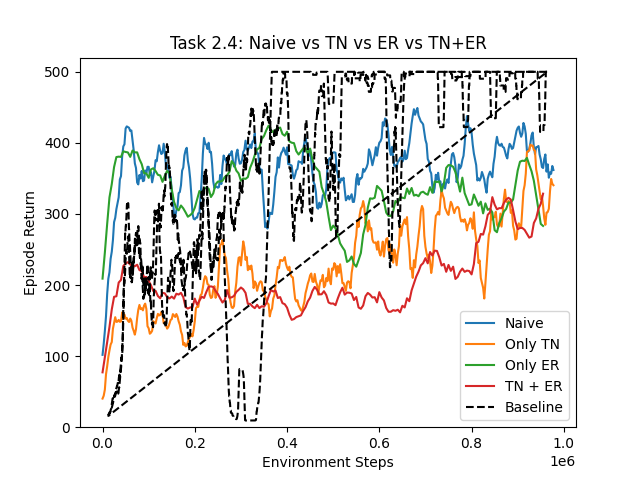
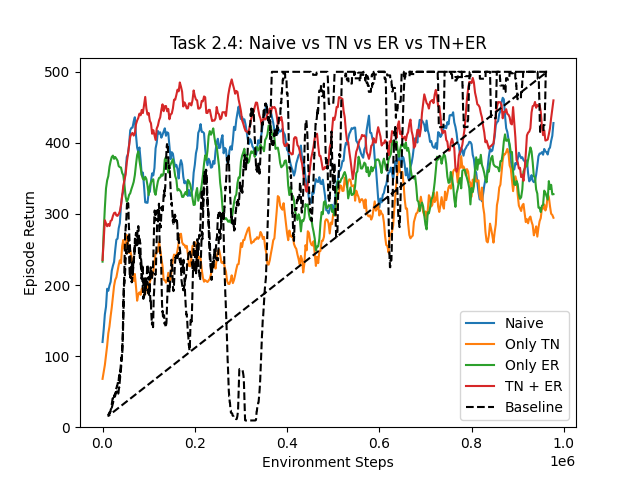
TN+ER best outperformer

Changed region(s): [[0.1562, 0.1562, 0.875, 0.8438]]

diff --git a/Experiment.py b/Experiment.py
@@ -1,17 +1,12 @@
 #Experiment.py
 
-#Usage:
-    #python Experiment.py            # run all tasks in sequence
-    #python Experiment.py --task 2.1 # run Task 2.1 only
-    #python Experiment.py --task 2.2 # run Task 2.2 only
-    #python Experiment.py --task 2.4 # run Task 2.4 only
-
-
 import numpy as np
 import time
 import argparse
+import gymnasium as gym
 from DQN import dqn
-from Helper import LearningCurvePlot, load_baseline, smooth
+from Agent import DQNAgent
+from Helper import LearningCurvePlot, load_baseline, smooth, evaluate
 
 
 # ============================================================
@@ -24,9 +19,8 @@ N_STEPS         = 1_000_000
 EVAL_INTERVAL   = 2_500
 N_EVAL_EPISODES = 5
 GAMMA           = 0.99
-NUM_ENVS        = 8      # parallel environments for speedup
+NUM_ENVS        = 8
 
-# Fixed best hyperparameters used across all tasks
 COMMON_PARAMS = dict(
     n_steps            = N_STEPS,
     eval_interval      = EVAL_INTERVAL,
@@ -38,10 +32,27 @@ COMMON_PARAMS = dict(
     hidden_size        = 64,
     batch_size         = 64,
     update_every       = 1,
-    target_update_freq = 500,
+    target_update_freq = 100,
     buffer_size        = 10000,
-    learning_rate      = 1e-4,
+    learning_rate      = 1e-3,
     num_envs           = NUM_ENVS,
+)
+
+# Params specifically for task 2.4 using per-episode decay
+TASK24_PARAMS = dict(
+    n_steps            = N_STEPS,
+    eval_interval      = EVAL_INTERVAL,
+    n_eval_episodes    = N_EVAL_EPISODES,
+    gamma              = GAMMA,
+    epsilon            = 1.0,
+    epsilon_min        = 0.01,
+    epsilon_decay      = 0.995,
+    hidden_size        = 64,
+    batch_size         = 64,
+    update_every       = 4,
+    target_update_freq = 100,
+    buffer_size        = 50000,
+    learning_rate      = 1e-3,
 )
 
 
@@ -50,9 +61,6 @@ COMMON_PARAMS = dict(
 # ============================================================
 
 def average_over_repetitions(n_repetitions=5, smoothing_window=9, **kwargs):
-    #Runs multiple repetitions of DQN and averages the learning curves.
-    #close structure with A1
-
     returns_over_repetitions = []
     now = time.time()
 
@@ -72,13 +80,80 @@ def average_over_repetitions(n_repetitions=5, smoothing_window=9, **kwargs):
 
 
 # ============================================================
-# TASK 2.1 — Naive DQN (no Target Network, no Experience Replay)
+# PER-EPISODE EPSILON DECAY — used for task 2.4
+# ============================================================
+
+def dqn_per_episode_decay(n_steps=1_000_000, eval_interval=2500, n_eval_episodes=5,
+        learning_rate=1e-3, gamma=0.99, epsilon=1.0, epsilon_min=0.01,
+        epsilon_decay=0.995, hidden_size=64, batch_size=64, update_every=4,
+        target_update_freq=100, buffer_size=50000,
+        use_target_network=False, use_replay_buffer=False, **kwargs):
+
+    env = gym.make('CartPole-v1')
+    eval_env = gym.make('CartPole-v1')
+    state_dim  = env.observation_space.shape[0]
+    action_dim = env.action_space.n
+
+    agent = DQNAgent(
+        state_dim=state_dim, action_dim=action_dim,
+        learning_rate=learning_rate, gamma=gamma,
+        epsilon=epsilon, epsilon_min=epsilon_min, epsilon_decay=epsilon_decay,
+        hidden_size=hidden_size, batch_size=batch_size, update_every=update_every,
+        target_update_freq=target_update_freq, buffer_size=buffer_size,
+        use_target_network=use_target_network, use_replay_buffer=use_replay_buffer
+    )
+
+    eval_returns, eval_steps = [], []
+    step = 0
+
+    while step < n_steps:
+        state, _ = env.reset()
+        done = False
+        while not done and step < n_steps:
+            if step % eval_interval == 0:
+                eval_returns.append(evaluate(agent, eval_env, n_eval_episodes))
+                eval_steps.append(step)
+            action = agent.select_action(state)
+            next_state, reward, terminated, truncated, _ = env.step(action)
+            done = terminated or truncated
+            if use_replay_buffer:
+                agent.store(state, action, reward, next_state, done)
+                agent.update_network(step)
+            else:
+                agent.update(state, action, reward, next_state, done)
+            state = next_state
+            step += 1
+        # epsilon decays per episode
+        agent.epsilon = max(agent.epsilon_min, agent.epsilon * agent.epsilon_decay)
+
+    env.close(); eval_env.close()
+    return np.array(eval_returns), np.array(eval_steps)
+
+
+def average_over_repetitions_per_episode(n_repetitions=5, smoothing_window=9, **kwargs):
+    returns_over_repetitions = []
+    now = time.time()
+
+    for rep in range(n_repetitions):
+        print(f'    Rep {rep+1}/{n_repetitions}')
+        returns, steps = dqn_per_episode_decay(**kwargs)
+        returns_over_repetitions.append(returns)
+
+    print(f'    Setting took {(time.time()-now)/60:.1f} minutes')
+    learning_curve = np.mean(np.array(returns_over_repetitions), axis=0)
+
+    if smoothing_window is not None:
+        learning_curve = smooth(learning_curve, smoothing_window)
+        steps = steps[:len(learning_curve)]
+
+    return learning_curve, steps
+
+
+# ============================================================
+# TASK 2.1
 # ============================================================
 
 def task_2_1(baseline_steps, baseline_returns):
-    #Runs naive DQN (no TN, no ER)
-    #Returns the curve and steps for reuse in Task 2.4
-
     print('Task 2.1: Naive DQN')
 
     naive_curve, naive_steps = average_over_repetitions(
@@ -99,80 +174,63 @@ def task_2_1(baseline_steps, baseline_returns):
 
 
 # ============================================================
-# TASK 2.2 — Ablation Study
+# TASK 2.2
 # ============================================================
 
 def task_2_2(baseline_steps, baseline_returns):
-    #Task 2.2, Ablation study
-    
     print('\nTask 2.2: Ablation Study')
 
-    # --- Learning rate ---
     print('  Ablation: learning rate')
     Plot = LearningCurvePlot(title='Ablation: Learning Rate')
     Plot.set_ylim(0, 520)
     for lr in [1e-4, 1e-3, 1e-2]:
         print(f'    lr = {lr}')
         curve, steps = average_over_repetitions(
-            n_repetitions    = N_REPETITIONS,
-            smoothing_window = SMOOTHING,
-            use_target_network = True,
-            use_replay_buffer  = True,
+            n_repetitions=N_REPETITIONS, smoothing_window=SMOOTHING,
+            use_target_network=True, use_replay_buffer=True,
             **{**COMMON_PARAMS, 'learning_rate': lr}
         )
         Plot.add_curve(steps, curve, label=f'lr = {lr}')
     Plot.ax.plot(baseline_steps, baseline_returns, '--', color='black', label='Baseline')
     Plot.save('ablation_lr.png')
 
-    # --- Network size ---
     print('  Ablation: network size')
     Plot = LearningCurvePlot(title='Ablation: Network Size')
     Plot.set_ylim(0, 520)
     for size in [32, 64, 128]:
         print(f'    hidden = {size}')
         curve, steps = average_over_repetitions(
-            n_repetitions    = N_REPETITIONS,
-            smoothing_window = SMOOTHING,
-            use_target_network = True,
-            use_replay_buffer  = True,
+            n_repetitions=N_REPETITIONS, smoothing_window=SMOOTHING,
+            use_target_network=True, use_replay_buffer=True,
             **{**COMMON_PARAMS, 'hidden_size': size}
         )
         Plot.add_curve(steps, curve, label=f'hidden = {size}')
     Plot.ax.plot(baseline_steps, baseline_returns, '--', color='black', label='Baseline')
     Plot.save('ablation_network.png')
 
-    # --- Update frequency ---
     print('  Ablation: update frequency')
     Plot = LearningCurvePlot(title='Ablation: Update Frequency')
     Plot.set_ylim(0, 520)
     for freq in [1, 4, 8]:
         print(f'    update_every = {freq}')
         curve, steps = average_over_repetitions(
-            n_repetitions    = N_REPETITIONS,
-            smoothing_window = SMOOTHING,
-            use_target_network = True,
-            use_replay_buffer  = True,
+            n_repetitions=N_REPETITIONS, smoothing_window=SMOOTHING,
+            use_target_network=True, use_replay_buffer=True,
             **{**COMMON_PARAMS, 'update_every': freq}
         )
         Plot.add_curve(steps, curve, label=f'update every {freq} steps')
     Plot.ax.plot(baseline_steps, baseline_returns, '--', color='black', label='Baseline')
     Plot.save('ablation_update.png')
 
-    # --- Exploration factor (fixed epsilon, no decay) ---
     print('  Ablation: exploration factor (fixed epsilon)')
     Plot = LearningCurvePlot(title='Ablation: Exploration Factor')
     Plot.set_ylim(0, 520)
     for eps in [0.1, 0.3, 0.5]:
         print(f'    epsilon = {eps}')
         curve, steps = average_over_repetitions(
-            n_repetitions    = N_REPETITIONS,
-            smoothing_window = SMOOTHING,
-            use_target_network = True,
-            use_replay_buffer  = True,
-            **{**COMMON_PARAMS,
-               'epsilon'      : eps,
-               'epsilon_min'  : eps,   
-               'epsilon_decay': 1.0}
+            n_repetitions=N_REPETITIONS, smoothing_window=SMOOTHING,
+            use_target_network=True, use_replay_buffer=True,
+            **{**COMMON_PARAMS, 'epsilon': eps, 'epsilon_min': eps, 'epsilon_decay': 1.0}
         )
         Plot.add_curve(steps, curve, label=f'epsilon = {eps}')
     Plot.ax.plot(baseline_steps, baseline_returns, '--', color='black', label='Baseline')
@@ -180,58 +238,42 @@ def task_2_2(baseline_steps, baseline_returns):
 
 
 # ============================================================
-# TASK 2.4 — Compare all 4 configurations
+# TASK 2.4
 # ============================================================
 
-def task_2_4(baseline_steps, baseline_returns, naive_curve=None, naive_steps=None):
-    #Task 2.4, configurations comparison
-    #If naive_curve is provided (from task_2_1), it iss reused .
-
+def task_2_4(baseline_steps, baseline_returns):
     print('\nTask 2.4: All 4 configurations')
 
-    if naive_curve is None or naive_steps is None:
-        print('  Naive DQN')
-        naive_curve, naive_steps = average_over_repetitions(
-            n_repetitions    = N_REPETITIONS,
-            smoothing_window = SMOOTHING,
-            use_target_network = False,
-            use_replay_buffer  = False,
-            **COMMON_PARAMS
-        )
+    print('  Naive DQN')
+    naive_curve, naive_steps = average_over_repetitions_per_episode(
+        n_repetitions=N_REPETITIONS, smoothing_window=SMOOTHING,
+        use_target_network=False, use_replay_buffer=False, **TASK24_PARAMS
+    )
 
     print('  Only TN')
-    tn_curve, tn_steps = average_over_repetitions(
-        n_repetitions    = N_REPETITIONS,
-        smoothing_window = SMOOTHING,
-        use_target_network = True,
-        use_replay_buffer  = False,
-        **COMMON_PARAMS
+    tn_curve, tn_steps = average_over_repetitions_per_episode(
+        n_repetitions=N_REPETITIONS, smoothing_window=SMOOTHING,
+        use_target_network=True, use_replay_buffer=False, **TASK24_PARAMS
     )
 
     print('  Only ER')
-    er_curve, er_steps = average_over_repetitions(
-        n_repetitions    = N_REPETITIONS,
-        smoothing_window = SMOOTHING,
-        use_target_network = False,
-        use_replay_buffer  = True,
-        **COMMON_PARAMS
+    er_curve, er_steps = average_over_repetitions_per_episode(
+        n_repetitions=N_REPETITIONS, smoothing_window=SMOOTHING,
+        use_target_network=False, use_replay_buffer=True, **TASK24_PARAMS
     )
 
     print('  TN + ER')
-    tner_curve, tner_steps = average_over_repetitions(
-        n_repetitions    = N_REPETITIONS,
-        smoothing_window = SMOOTHING,
-        use_target_network = True,
-        use_replay_buffer  = True,
-        **COMMON_PARAMS
+    tner_curve, tner_steps = average_over_repetitions_per_episode(
+        n_repetitions=N_REPETITIONS, smoothing_window=SMOOTHING,
+        use_target_network=True, use_replay_buffer=True, **TASK24_PARAMS
     )
 
     Plot = LearningCurvePlot(title='Task 2.4: Naive vs TN vs ER vs TN+ER')
     Plot.set_ylim(0, 520)
-    Plot.add_curve(naive_steps,  naive_curve,  label='Naive')
-    Plot.add_curve(tn_steps,     tn_curve,     label='Only TN')
-    Plot.add_curve(er_steps,     er_curve,     label='Only ER')
-    Plot.add_curve(tner_steps,   tner_curve,   label='TN + ER')
+    Plot.add_curve(naive_steps, naive_curve, label='Naive')
+    Plot.add_curve(tn_steps,    tn_curve,    label='Only TN')
+    Plot.add_curve(er_steps,    er_curve,    label='Only ER')
+    Plot.add_curve(tner_steps,  tner_curve,  label='TN + ER')
     Plot.ax.plot(baseline_steps, baseline_returns, '--', color='black', label='Baseline')
     Plot.save('configurations.png')
 
@@ -251,18 +293,14 @@ def main():
 
     if args.task == '2.1':
         task_2_1(baseline_steps, baseline_returns)
-
     elif args.task == '2.2':
         task_2_2(baseline_steps, baseline_returns)
-
     elif args.task == '2.4':
         task_2_4(baseline_steps, baseline_returns)
-
     elif args.task == 'all':
-        naive_curve, naive_steps = task_2_1(baseline_steps, baseline_returns)
+        task_2_1(baseline_steps, baseline_returns)
         task_2_2(baseline_steps, baseline_returns)
-        task_2_4(baseline_steps, baseline_returns,
-                 naive_curve=naive_curve, naive_steps=naive_steps)
+        task_2_4(baseline_steps, baseline_returns)
 
     print('\nPlots saved:')
     print('  naive_dqn.png, ablation_lr.png, ablation_network.png,')

diff --git a/Agent.py b/Agent.py
@@ -91,8 +91,8 @@ class DQNAgent:
         #Store a single transition and decay epsilon
         #Called once per environment per step in the vectorized loop
         
-        if self.epsilon > self.epsilon_min:
-            self.epsilon *= self.epsilon_decay
+        #if self.epsilon > self.epsilon_min:
+            #elf.epsilon *= self.epsilon_decay
 
         if self.use_replay_buffer:
             self.replay_buffer.push(state, action, reward, next_state, float(done))

diff --git a/DQN.py b/DQN.py
@@ -75,6 +75,7 @@ def dqn(n_steps=100000,
                 )
 
             agent.update_network(step)
+            agent.epsilon = max(agent.epsilon_min, agent.epsilon * agent.epsilon_decay)
             states  = next_states
             step   += num_envs
 
